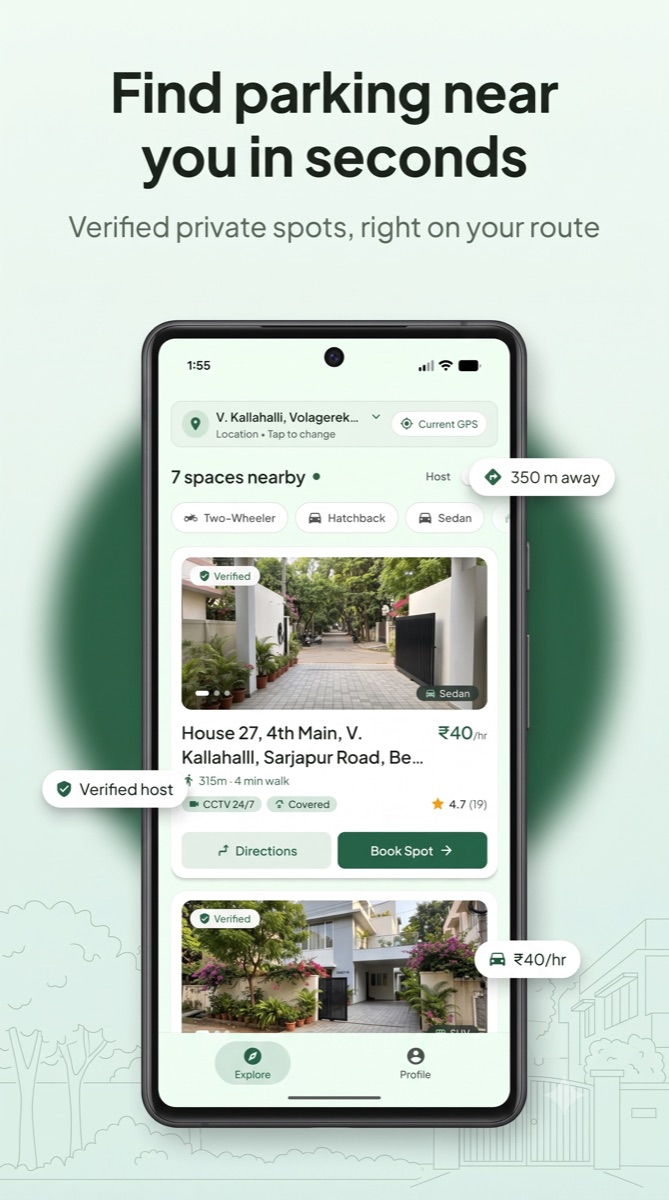
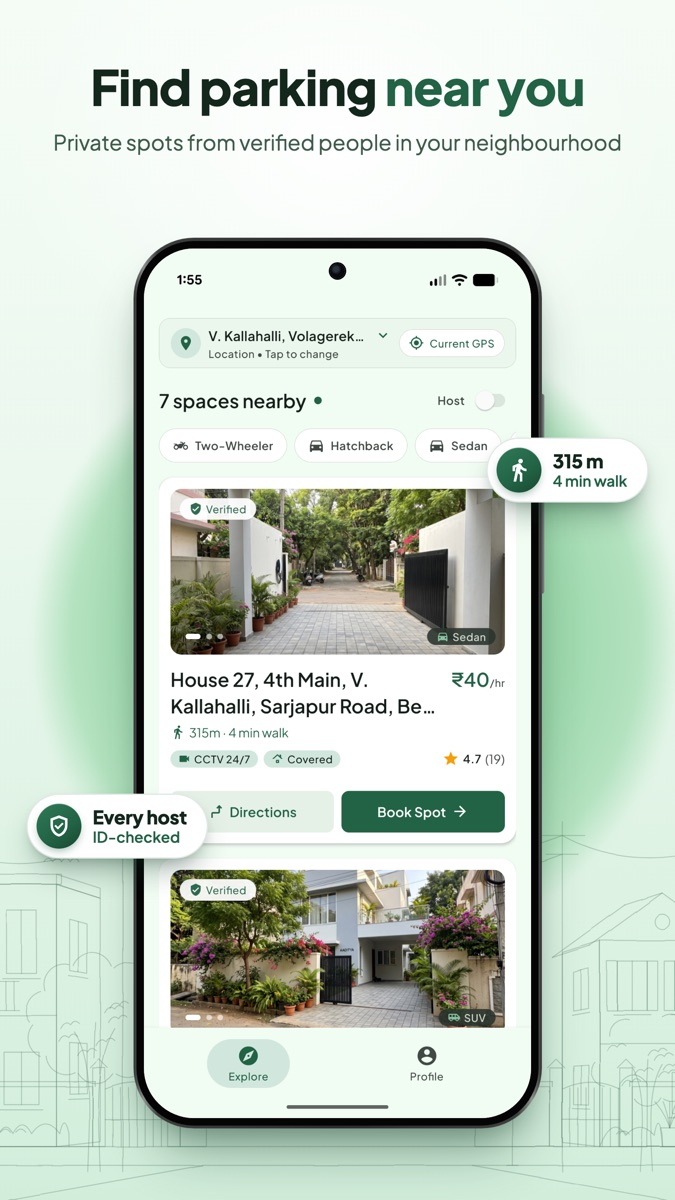
refactor: update ParkSaathi screenshot dimensions, image files, and alt text in site data

diff --git a/data/site.ts b/data/site.ts
@@ -163,9 +163,9 @@ export const apps: App[] = [
     website: "https://parksaathi.app",
     icon: "/apps/parksaathi/icon.png",
     screenshots: [
-      { src: "/apps/parksaathi/1.jpg", alt: "ParkSaathi list of verified parking spots nearby", width: 670, height: 1200 },
-      { src: "/apps/parksaathi/2.jpg", alt: "ParkSaathi parking spot details", width: 670, height: 1200 },
-      { src: "/apps/parksaathi/3.jpg", alt: "ParkSaathi host earnings screen", width: 670, height: 1200 },
+      { src: "/apps/parksaathi/1.jpg", alt: "ParkSaathi list of verified parking spots nearby", width: 675, height: 1200 },
+      { src: "/apps/parksaathi/2.jpg", alt: "ParkSaathi parking spot details with photos and ratings", width: 675, height: 1200 },
+      { src: "/apps/parksaathi/3.jpg", alt: "ParkSaathi account screen with daily and weekly host earnings", width: 675, height: 1200 },
     ],
     stores: [
       { platform: "Google Play", status: "soon", url: "" },
